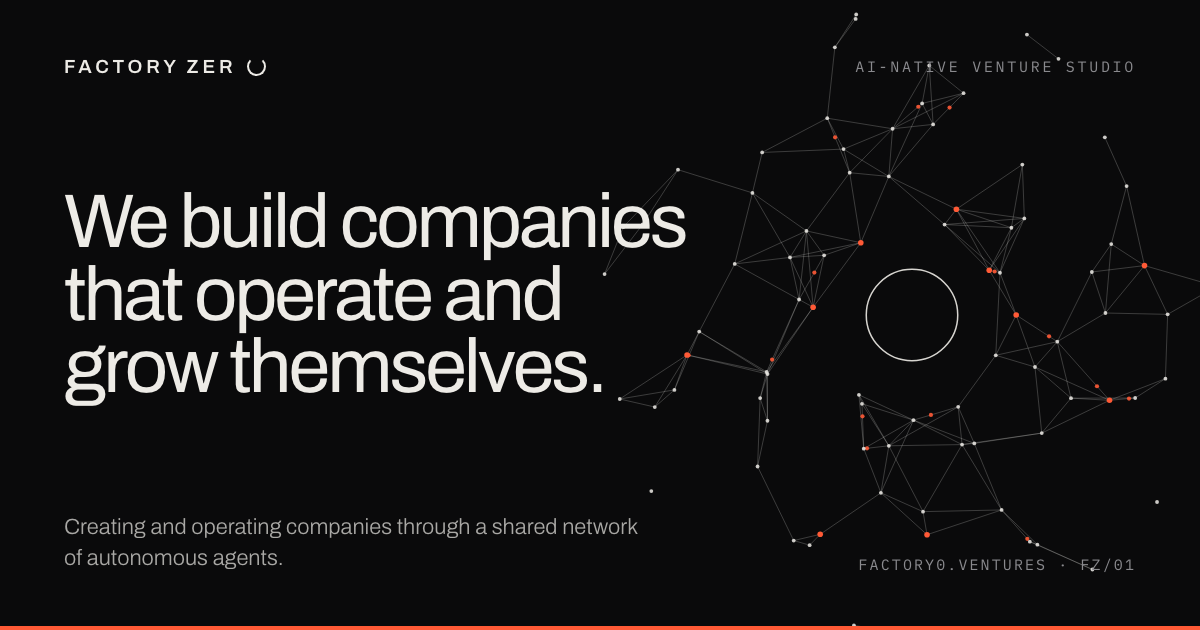
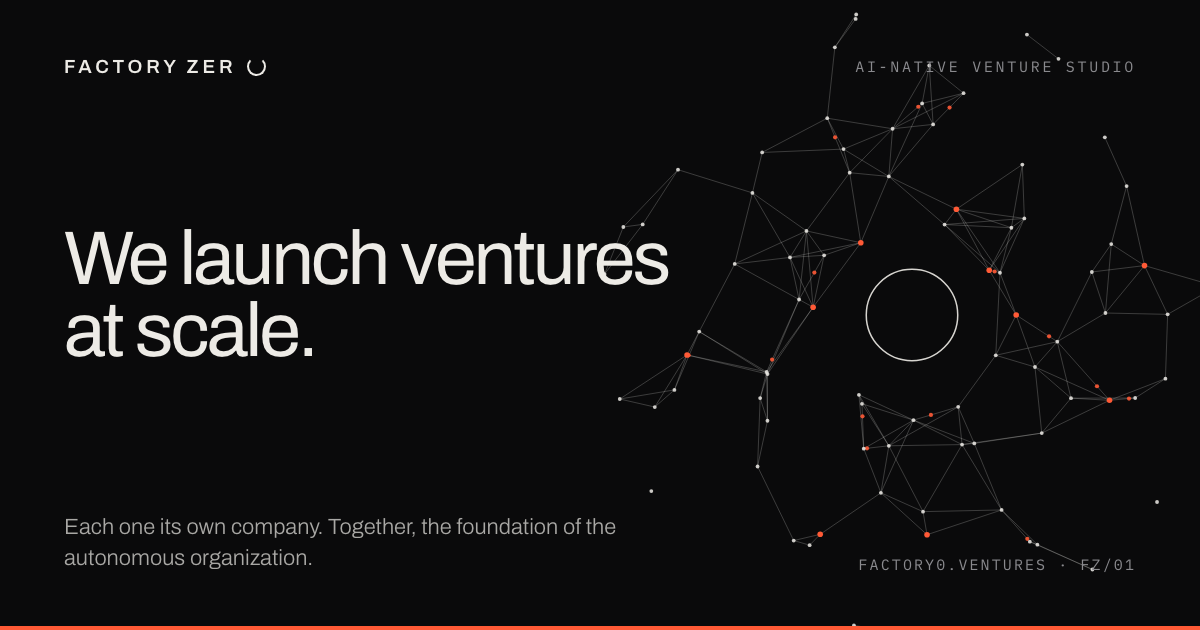
Hero: we launch ventures at scale, with calls to action and a counted proof row
The headline becomes "We launch ventures at scale." over a subline that says
what the ventures add up to: each is its own company, and together they form
the foundation of the autonomous organization.

- Two-line headline on desktop instead of four, ruled off from a foot with the
  subline, a primary "See the ventures" (to the reel) and "How it works" (to
  the factory section).
- Proof row (ventures, sectors, ventures already running on a sister venture)
  counted from assets/fz-data.js by tools/sync-ventures.js into fz:proof
  markers; only live `uses` links count. The duplicate VENTURES readout goes.
- Phone: compact readout, three-line headline, full-width buttons; the hero
  network centres in the open band above the headline.
- Tagline, meta descriptions, llms.txt, OG card and README banner updated.

Changed region(s): [[0.0308, 0.3016, 0.5858, 0.6635], [0.0617, 0.8143, 0.5242, 0.9048]]

diff --git a/index.html b/index.html
@@ -6,7 +6,7 @@
 <script>document.documentElement.classList.add('js')</script>
 
 <title>Factory Zero · AI-Native Venture Studio</title>
-<meta name="description" content="Factory Zero is an AI-native venture studio that creates, launches and operates companies through a shared network of autonomous agents. One operating system, many distinct ventures.">
+<meta name="description" content="Factory Zero launches ventures at scale. Each one is its own company; together they form the foundation of the autonomous organization. One operating system, many distinct ventures.">
 <link rel="canonical" href="https://factory0.ventures/">
 <meta name="robots" content="index, follow, max-image-preview:large, max-snippet:-1, max-video-preview:-1">
 <meta name="theme-color" content="#0A0A0B">
@@ -17,18 +17,18 @@
 <meta property="og:locale" content="en_US">
 <meta property="og:url" content="https://factory0.ventures/">
 <meta property="og:title" content="Factory Zero · AI-Native Venture Studio">
-<meta property="og:description" content="Factory Zero is an AI-native venture studio that creates, launches and operates companies through a shared network of autonomous agents.">
+<meta property="og:description" content="Factory Zero launches ventures at scale. Each one is its own company; together they form the foundation of the autonomous organization.">
 <meta property="og:image" content="https://factory0.ventures/assets/og.png">
 <meta property="og:image:type" content="image/png">
 <meta property="og:image:width" content="1200">
 <meta property="og:image:height" content="630">
-<meta property="og:image:alt" content="Factory Zero. We build companies that operate and grow themselves.">
+<meta property="og:image:alt" content="Factory Zero. We launch ventures at scale.">
 
 <meta name="twitter:card" content="summary_large_image">
 <meta name="twitter:title" content="Factory Zero · AI-Native Venture Studio">
-<meta name="twitter:description" content="Factory Zero is an AI-native venture studio that creates, launches and operates companies through a shared network of autonomous agents.">
+<meta name="twitter:description" content="Factory Zero launches ventures at scale. Each one is its own company; together they form the foundation of the autonomous organization.">
 <meta name="twitter:image" content="https://factory0.ventures/assets/og.png">
-<meta name="twitter:image:alt" content="Factory Zero. We build companies that operate and grow themselves.">
+<meta name="twitter:image:alt" content="Factory Zero. We launch ventures at scale.">
 
 <link rel="icon" href="/assets/favicon.svg" type="image/svg+xml">
 <link rel="apple-touch-icon" href="/assets/apple-touch-icon.png">
@@ -50,7 +50,7 @@
       "name": "Factory Zero",
       "url": "https://factory0.ventures/",
       "description": "An AI-native venture studio that creates, launches and operates companies through a shared network of autonomous agents.",
-      "slogan": "We build companies that operate and grow themselves.",
+      "slogan": "We launch ventures at scale.",
       "logo": {
         "@type": "ImageObject",
         "url": "https://factory0.ventures/assets/icon-512.png",
@@ -142,10 +142,6 @@
     </dl>
     <dl class="readout-group readout-group--end">
       <div>
-        <dt>VENTURES</dt>
-        <dd id="fz-ventures">21 ACTIVE</dd>
-      </div>
-      <div>
         <dt>PRS MERGED · 30D</dt>
         <dd id="fz-merged" title="Merged pull requests in the ventures' public GitHub repositories, last 30 days">—</dd>
       </div>
@@ -153,16 +149,32 @@
   </div>
 
   <div class="hero-title-wrap">
-    <h1 class="hero-title" id="fz-headline">We build companies that operate and grow themselves.</h1>
+    <h1 class="hero-title" id="fz-headline">We launch ventures at&nbsp;scale.</h1>
   </div>
 
   <div class="hero-foot">
-    <p class="lede">Factory Zero is an AI-native venture studio creating and operating companies through a shared network of autonomous agents.</p>
-    <p class="hero-phase">NEW VENTURE<b id="fz-phase">INITIALIZING</b></p>
+    <div class="hero-copy">
+      <p class="hero-sub">Each one is a real company with its own product and brand. Together they form the foundation of the autonomous organization: every launch adds infrastructure and agents the next one is built&nbsp;on.</p>
+      <div class="hero-cta">
+        <a class="btn btn--primary" href="#ventures">See the ventures <span aria-hidden="true">&darr;</span></a>
+        <a class="btn btn--ghost" href="#system">How it works</a>
+      </div>
+    </div>
+    <div class="hero-side">
+      <!-- Counted from assets/fz-data.js by tools/sync-ventures.js. -->
+      <dl class="hero-proof" aria-label="Factory Zero in numbers">
+<!-- fz:proof:start -->
+        <div><dt>VENTURES</dt><dd>21</dd></div>
+        <div><dt>SECTORS</dt><dd>16</dd></div>
+        <div><dt>RUN ON A SISTER VENTURE</dt><dd>06</dd></div>
+<!-- fz:proof:end -->
+      </dl>
+      <p class="hero-phase">NEW VENTURE<b id="fz-phase">INITIALIZING</b></p>
+    </div>
   </div>
 </section>
 
-<section class="reel-band" aria-labelledby="reel-h">
+<section class="reel-band" id="ventures" aria-labelledby="reel-h">
   <div class="reel-head">
     <p class="eyebrow eyebrow--flush" id="reel-h">THE VENTURES &middot; <span id="fz-reel-count">21</span></p>
     <a class="reel-all" href="/ventures/">THE REGISTRY &rarr;</a>

diff --git a/assets/fz.css b/assets/fz.css
@@ -374,30 +374,85 @@ html.scrolled .site-header {
   position: relative;
   display: flex;
   align-items: flex-end;
-  padding-bottom: 6vh;
+  padding-bottom: 5vh;
   pointer-events: none;
 }
+/* Two lines on desktop, three on a phone: big enough to own the screen,
+   short enough that the subline and the calls to action stay above the fold. */
 .hero-title {
   margin: 0;
-  max-width: 13ch;
+  max-width: 14ch;
   font-weight: 400;
-  font-size: clamp(48px, 7.6vw, 128px);
-  line-height: .94;
-  letter-spacing: -.04em;
+  font-size: clamp(52px, 8.2vw, 148px);
+  line-height: .92;
+  letter-spacing: -.045em;
   text-wrap: balance;
   animation: fzUp 1.4s .6s both;
 }
 .hero-foot {
   position: relative;
-  display: flex;
-  justify-content: space-between;
-  align-items: flex-end;
-  gap: 40px;
-  flex-wrap: wrap;
-  animation: fzIn 1.6s 1.4s both;
+  display: grid;
+  grid-template-columns: minmax(0, 1fr) auto;
+  align-items: end;
+  gap: 40px 6vw;
+  padding-top: 32px;
+  border-top: 1px solid var(--line-2);
+  animation: fzIn 1.6s 1.1s both;
 }
-.hero-foot .lede { color: var(--body); }
+.hero-copy { display: grid; gap: 32px; justify-items: start; min-width: 0; }
+.hero-sub {
+  margin: 0;
+  max-width: 52ch;
+  font-size: clamp(17px, 1.45vw, 21px);
+  line-height: 1.5;
+  font-weight: 300;
+  color: var(--body);
+  text-wrap: pretty;
+}
+.hero-cta { display: flex; flex-wrap: wrap; gap: 12px; }
+.btn {
+  display: inline-flex;
+  align-items: center;
+  gap: 12px;
+  min-height: 48px;
+  padding: 0 22px;
+  border: 1px solid var(--line-2);
+  font-family: var(--mono);
+  font-size: 12px;
+  letter-spacing: .14em;
+  text-transform: uppercase;
+  color: var(--ink);
+  transition: background-color .2s, border-color .2s, color .2s;
+}
+.btn span { font-size: 14px; transition: transform .2s; }
+.btn--primary { background: var(--accent); border-color: var(--accent); color: var(--bg); }
+.btn--primary:hover, .btn--primary:focus-visible { background: var(--ink); border-color: var(--ink); color: var(--bg); }
+.btn--primary:hover span { transform: translateY(2px); }
+.btn--ghost:hover, .btn--ghost:focus-visible { border-color: var(--ink); color: var(--ink); }
+.btn:focus-visible { outline: none; box-shadow: 0 0 0 2px var(--bg), 0 0 0 4px var(--accent); }
+.hero-side { display: grid; gap: 28px; justify-items: end; }
+.hero-proof {
+  margin: 0;
+  display: flex;
+  gap: 40px;
+  font-family: var(--mono);
+  font-size: 10px;
+  letter-spacing: .14em;
+  color: var(--muted);
+}
+.hero-proof > div { display: grid; gap: 10px; align-content: start; min-width: 0; }
+.hero-proof dt { margin: 0; line-height: 1.5; }
+.hero-proof dd {
+  margin: 0;
+  order: -1;
+  font-family: var(--sans);
+  font-size: clamp(32px, 3vw, 44px);
+  line-height: 1;
+  letter-spacing: -.03em;
+  color: var(--ink);
+}
 .hero-phase {
+  margin: 0;
   font-family: var(--mono);
   font-size: 11px;
   letter-spacing: .14em;
@@ -406,6 +461,10 @@ html.scrolled .site-header {
 }
 .hero-phase b { display: block; font-weight: 400; color: var(--accent); margin-top: 6px; }
 
+@media (max-width: 900px) {
+  .hero-foot { grid-template-columns: 1fr; }
+  .hero-side { justify-items: start; }
+}
 /* ---------- 01 thesis ---------- */
 
 .thesis { padding: 22vh var(--gut); border-top: 1px solid var(--line); }
@@ -1652,4 +1711,22 @@ html:not(.js) .spec .activity { display: none; }
 .repo-list .muted { color: var(--muted); font-size: 14px; }
 @media (max-width: 900px) {
   .tech-split { grid-template-columns: 1fr; gap: 28px; }
+}
+
+/* Phone hero. Last in the file so it wins over the generic 760/900px rules. */
+@media (max-width: 560px) {
+  .hero { padding-top: 104px; padding-bottom: 32px; }
+  .readout, .readout-group { flex-direction: row; gap: 28px; }
+  .readout { justify-content: flex-start; }
+  .readout-group > div:nth-child(2) { display: none; }
+  .hero-title-wrap { padding-top: 96px; }
+  .hero-title { font-size: clamp(46px, 13.4vw, 64px); }
+  .hero-foot { padding-top: 24px; gap: 28px; }
+  .hero-copy { gap: 24px; }
+  .hero-sub { font-size: 16px; }
+  .hero-cta { width: 100%; }
+  .hero-cta .btn { flex: 1 1 auto; justify-content: center; padding: 0 16px; }
+  .hero-proof { gap: 20px; width: 100%; justify-content: space-between; }
+  .hero-proof dt { max-width: 13ch; }
+  .hero-phase { display: none; }
 }

diff --git a/tools/sync-ventures.js b/tools/sync-ventures.js
@@ -280,7 +280,6 @@ fs.writeFileSync(path.join(ROOT, 'stack.json'), JSON.stringify(stack, null, 2) +
 const hp = path.join(ROOT, 'index.html');
 let hs = fs.readFileSync(hp, 'utf8');
 for (const [re, val, label] of [
-  [/(id="fz-ventures"[^>]*>)[^<]*/, `${String(live.length).padStart(2, '0')} ACTIVE`, 'fz-ventures'],
   [/(id="fz-pipeline-count"[^>]*>)[^<]*/, `LINE 01 &middot; ${String(live.length).padStart(2, '0')} UNITS IN PROCESS`, 'fz-pipeline-count'],
   [/(id="fz-reel-count"[^>]*>)[^<]*/, String(live.length), 'fz-reel-count'],
 ]) {
@@ -288,6 +287,22 @@ for (const [re, val, label] of [
   hs = hs.replace(re, `$1${val}`);
 }
 hs = replaceRegion(hs, 'reel', reel(live));
+// The hero proof row: counts only, each one derived from the records above,
+// so it can never claim more than the registry shows.
+function proof(vs) {
+  const ids = new Set(vs.map(v => v.id));
+  const sectors = new Set(vs.map(v => v.category).filter(Boolean)).size;
+  // Ventures that already run on a sister venture, by a `uses` entry checked live.
+  const onSister = vs.filter(v => (v.uses || []).some(u => ids.has(u.id) && u.status === 'live')).length;
+  const row = (n, label) => `        <div><dt>${label}</dt><dd>${String(n).padStart(2, '0')}</dd></div>`;
+  return [
+    row(vs.length, 'VENTURES'),
+    row(sectors, 'SECTORS'),
+    row(onSister, 'RUN ON A SISTER VENTURE'),
+  ].join('\n');
+}
+hs = replaceRegion(hs, 'proof', proof(live));
+
 // The venture timeline, from assets/timeline-data.json (refresh that with
 // tools/sync-timeline.js). Ventures without an org in the data are left out.
 const tdp = path.join(ROOT, 'assets/timeline-data.json');

diff --git a/assets/fz-app.js b/assets/fz-app.js
@@ -57,12 +57,10 @@
   /* ------------------------------------------------------------ hero meta */
 
   var elStatus = $('fz-status');
-  var elVentures = $('fz-ventures');
   var elAgents = $('fz-agents');
   var elPhase = $('fz-phase');
 
   if (elStatus) elStatus.textContent = C.factoryStatus || 'ONLINE';
-  if (elVentures) elVentures.textContent = pad2(C.activeVentures != null ? C.activeVentures : live.length) + ' ACTIVE';
   if (C.headline) {
     var elHeadline = $('fz-headline');
     if (elHeadline) elHeadline.textContent = C.headline;
@@ -280,7 +278,15 @@
       H = canvas.clientHeight;
       canvas.width = Math.round(W * dpr);
       canvas.height = Math.round(H * dpr);
+      // On a narrow screen the headline fills the middle, so the network sits
+      // in the open band between the readout and the headline instead.
+      var ro = document.querySelector('.hero .readout'), ht = $('fz-headline');
+      if (ro && ht) {
+        var top = canvas.getBoundingClientRect().top;
+        narrowCy = (ro.getBoundingClientRect().bottom + ht.getBoundingClientRect().top) / 2 - top;
+      }
     }
+    var narrowCy = 0;
     resize();
 
     function rnd(n) {
@@ -327,7 +333,7 @@
 
       var wide = W > 900;
       var cx = (wide ? W * 0.68 : W * 0.5) + mouse.x * 14;
-      var cy = H * (wide ? 0.5 : 0.42) + mouse.y * 10;
+      var cy = (wide ? H * 0.5 : (narrowCy || H * 0.42)) + mouse.y * 10;
       var scale = Math.min(1, W / 1400) * (wide ? 1 : 0.7);
       var q = ease((p - 0.76) / 0.13);
       var fade = p > 0.92 ? 1 - (p - 0.92) / 0.08 : 1;

diff --git a/tools/og-render.html b/tools/og-render.html
@@ -34,9 +34,9 @@
       <div class="mark"><span>FACTORY ZER</span><span class="o"></span></div>
       <div class="kind" id="kind">AI-NATIVE VENTURE STUDIO</div>
     </div>
-    <div class="mid"><h1 id="title">We build companies that operate and grow themselves.</h1></div>
+    <div class="mid"><h1 id="title">We launch ventures at scale.</h1></div>
     <div class="bottom">
-      <div class="sub" id="sub">Creating and operating companies through a shared network of autonomous agents.</div>
+      <div class="sub" id="sub">Each one its own company. Together, the foundation of the autonomous organization.</div>
       <div>FACTORY0.VENTURES · FZ/01</div>
     </div>
   </div>

diff --git a/assets/fz-data.js b/assets/fz-data.js
@@ -571,6 +571,6 @@ window.FZ_DATA = {
 // Editable presentation values. In the Claude Design source these were `data-props`
 // on the component; here they are plain overrides you can edit without touching logic.
 window.FZ_CONFIG = {
-  headline: 'We build companies that operate and grow themselves.', // also rendered statically in index.html
+  headline: 'We launch ventures at\u00a0scale.', // also rendered statically in index.html
   factoryStatus: 'ONLINE'    // ONLINE | MAINTENANCE | INITIALIZING
 };

diff --git a/tools/banner-render.html b/tools/banner-render.html
@@ -30,7 +30,7 @@
   <div class="veil"></div>
   <div class="c">
     <div class="mark"><span>FACTORY ZER</span><span class="o"></span></div>
-    <div class="tag">We build companies that operate and grow themselves.</div>
+    <div class="tag">We launch ventures at scale.</div>
     <div class="meta">AI-NATIVE VENTURE STUDIO<b> · </b>FZ/01</div>
   </div>
   <div class="rule"></div>

diff --git a/README.md b/README.md
@@ -1,5 +1,5 @@
 <p align="center">
-  <img src="assets/readme-banner.png" alt="Factory Zero. We build companies that operate and grow themselves." width="100%">
+  <img src="assets/readme-banner.png" alt="Factory Zero. We launch ventures at scale." width="100%">
 </p>
 
 <p align="center">
@@ -216,9 +216,14 @@ Nearly everything is data:
   owners and repositories in `activity-sources.json`. Set a `GITHUB_TOKEN` Pages
   secret (a fine-grained token with no permissions is enough) to lift GitHub's
   60-requests-an-hour anonymous limit.
-- **`window.FZ_CONFIG`** at the bottom of the same file holds the headline,
-  factory status, venture count and agent-network number. These mirror the
-  editable `data-props` from the design source.
+- **`window.FZ_CONFIG`** at the bottom of the same file holds the headline
+  and factory status. These mirror the editable `data-props` from the design
+  source; the headline is also written statically in `index.html`.
+- **The hero proof row** (ventures, sectors, ventures that already run on a
+  sister venture) is counted from `ventures` by `sync-ventures.js` and written
+  between the `fz:proof` markers in `index.html`. "Run on a sister venture"
+  counts records with at least one `uses` entry that names another venture
+  and is `live`, so a `planned` link never inflates it.
 - All prose (thesis, human role, footer) is plain HTML in `index.html`.
 
 ### Regenerating raster assets
